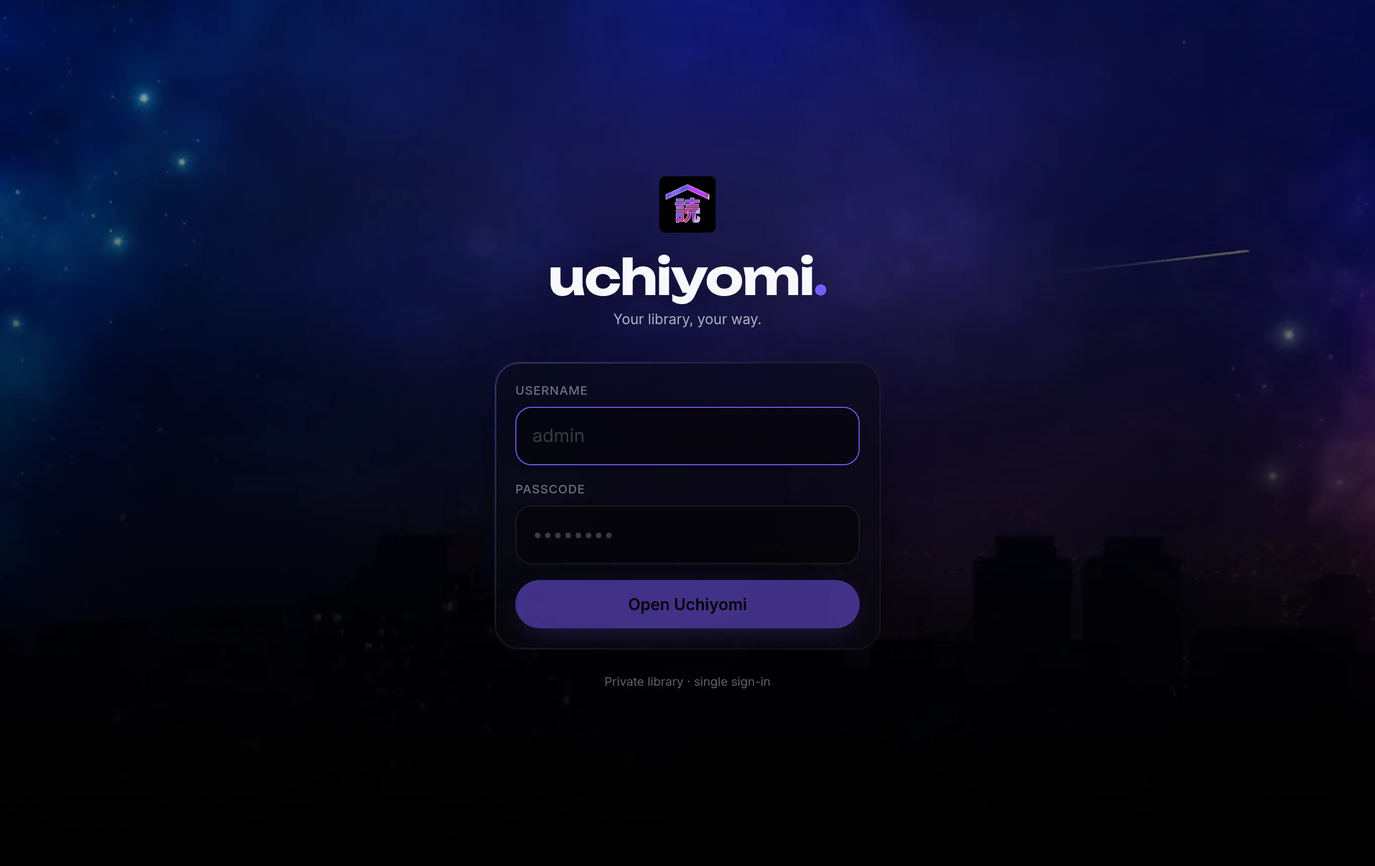
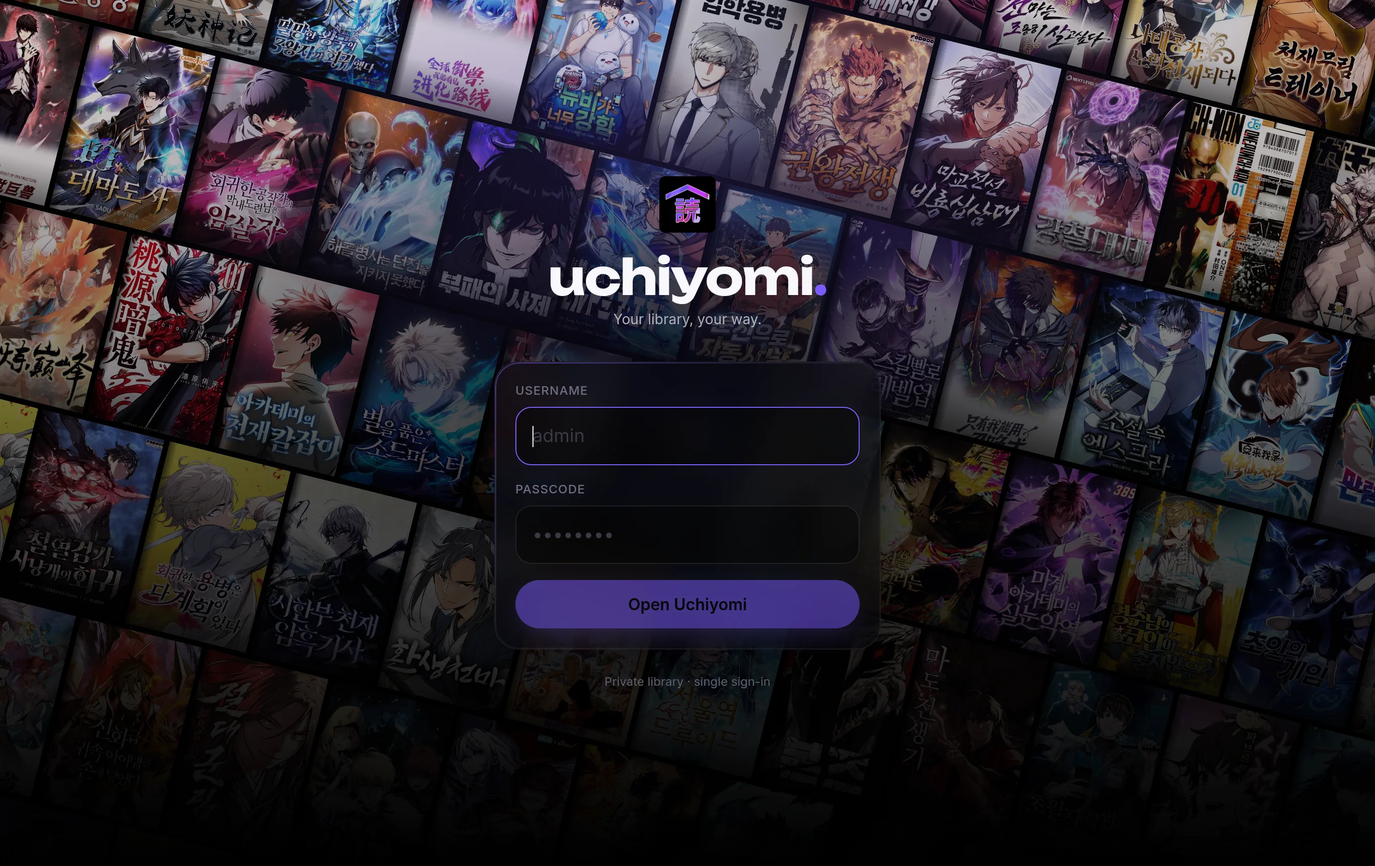
Re-shoot the screens that changed, and fix the --site-dir trap
The set was captured on 25 August and six screens have changed since. Re-shot only those, leaving the rest
alone: library, series, home, wrapped, profile, reader and the phone shots are unchanged in the source since
that capture, so re-taking them would be churn.

* discover — the big one. SourcePicker +185, discover/page +125, DiscoverHero +49 across v0.9.7 to v0.10.0.
  The old image predates the Newest/Popular toggle, the tap-to-filter source chips and their icons entirely.
* admin-health, admin-providers, crop-health — admin/page +139: the v0.9.8 source self-check, and v0.11.0's
  updater-failure and backup reporting.
* login, login-sso — the cover wall behind the login screen landed on 26 August, one day after the capture.
  The size jump (41 KB to 510 KB) is that wall: a flat screen became a full-bleed photographic one.

The reader gained 64 lines in v0.11.0 but they are the failure card, which only renders when a chapter fails,
so the normal reader shot is still accurate and stays.

While using the rig: `--site-dir` pointed at a site checkout silently did the wrong thing. The encoder writes
to the root of whatever is mounted at /site, so six webp files landed in the site root, the run reported
success, and the site kept serving the old images. It now resolves `<dir>/assets/shots` when that exists, so
both readings of the flag work, and SCREENSHOTS.md documents the flag it actually has rather than `--site`.
[…]

diff --git a/docs/SCREENSHOTS.md b/docs/SCREENSHOTS.md
@@ -7,11 +7,13 @@ the thirteen hours after it, and none of them appeared in a single image.
 ```bash
 bash scripts/shots/run.sh --yes                        # everything
 bash scripts/shots/run.sh --yes --only home,library    # a subset
-bash scripts/shots/run.sh --yes --site                 # also refresh the marketing site's copies
+bash scripts/shots/run.sh --yes --site-dir ../site      # also refresh the marketing site's copies
 ```
 
-Output lands in `docs/shots/` as WebP. With `--site` it also writes smaller copies into the marketing site's
-`assets/shots/` — one capture, two encodes, because the docs want sharpness and the site wants bytes.
+Output lands in `docs/shots/` as WebP. With `--site-dir` it also writes smaller copies into the marketing
+site's `assets/shots/` — one capture, two encodes, because the docs want sharpness and the site wants bytes.
+Point `--site-dir` at either the site checkout or its `assets/shots/` directly; both resolve to the same
+place.
 
 ## What it does
 
